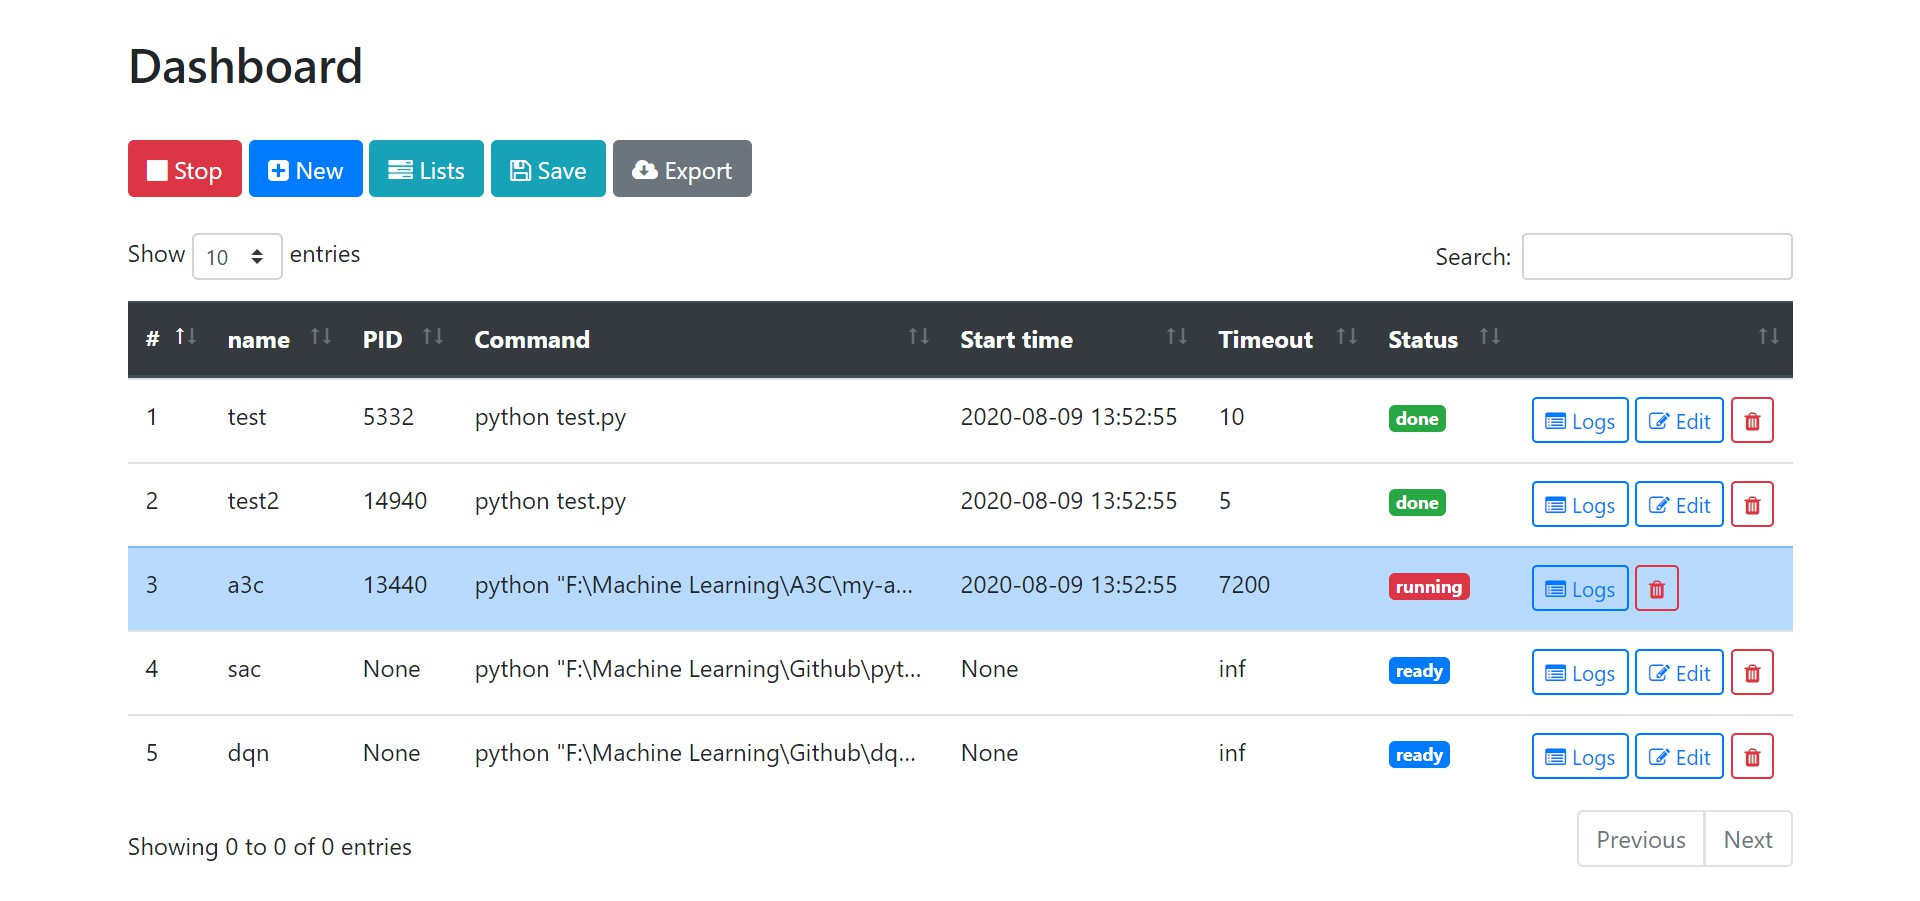
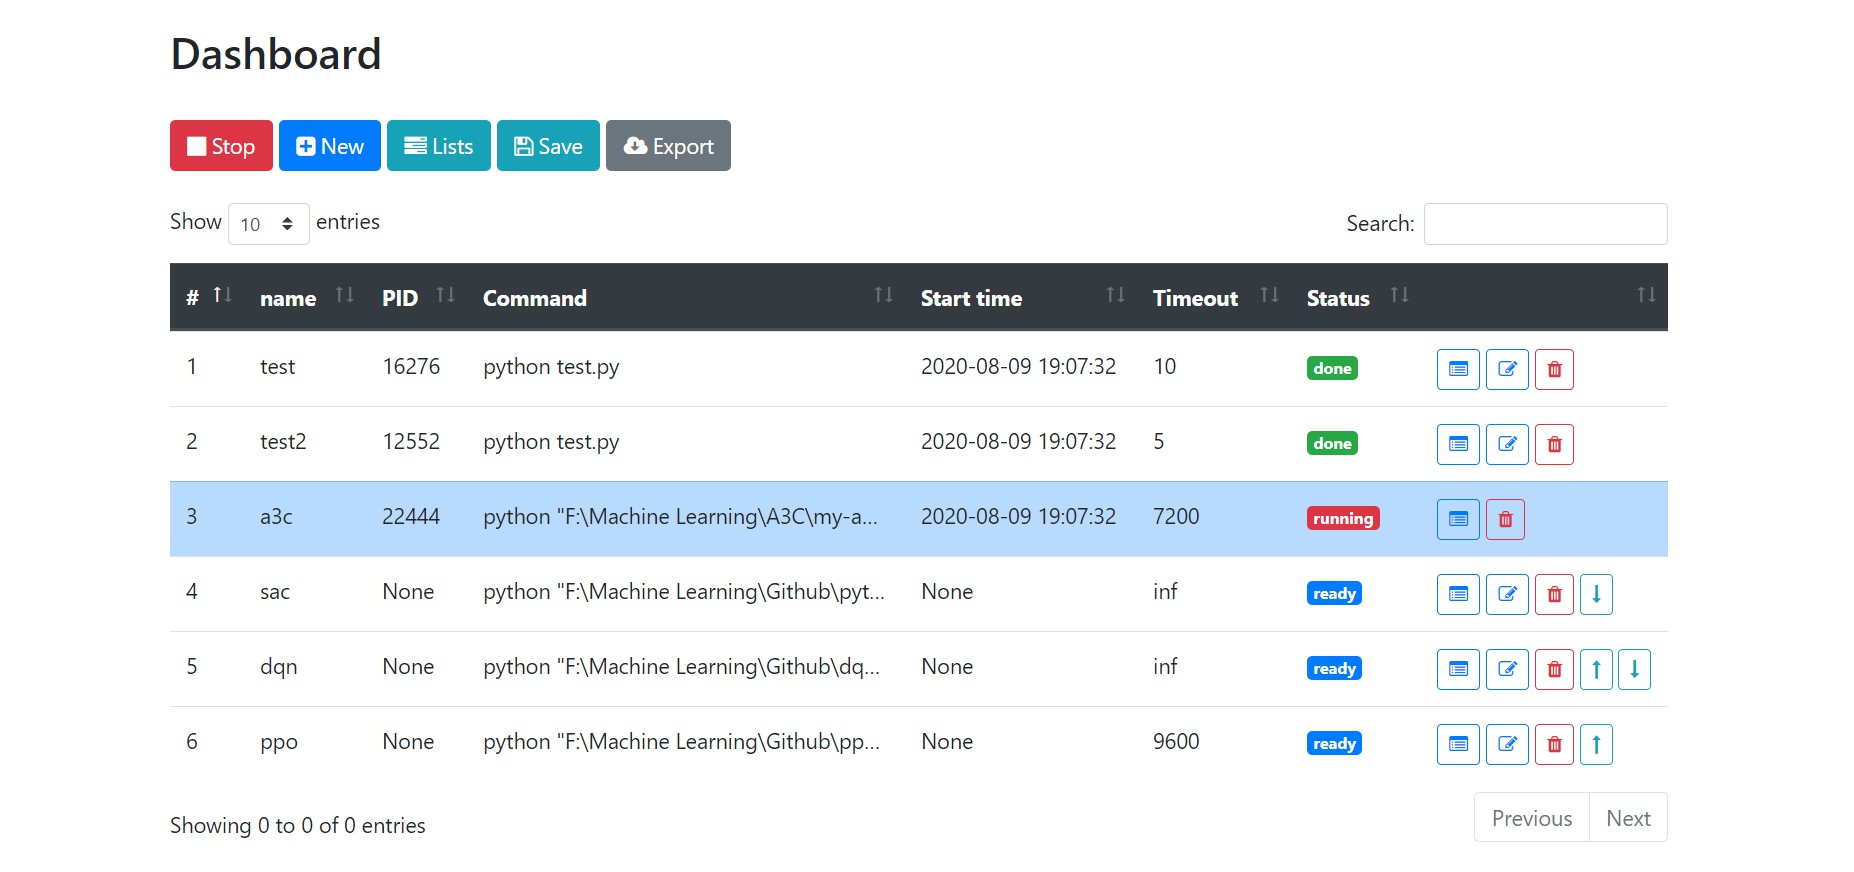
add change order feature

diff --git a/templates/dashboard.html b/templates/dashboard.html
@@ -19,11 +19,23 @@
     {% endif %}
     <td>
     <!-- controls based on crontab state -->
-    <a onclick="show_log('{{ loop.index0 }}');"><button class="btn btn-outline-primary btn-sm"><span class="fa fa-list-alt" aria-hidden="true"></span> Logs</button></a>
+    <!-- <a onclick="run_task('{{ loop.index0 }}');"><button class="btn btn-outline-success btn-sm"><span class="fa fa-play" aria-hidden="true"></span></button></a> -->
+
+    <a onclick="show_log('{{ loop.index0 }}');"><button class="btn btn-outline-primary btn-sm"><span class="fa fa-list-alt" aria-hidden="true"></span></button></a>
     {% if row['status'] != 'running'%}
-        <a onclick="edit_task('{{ loop.index0 }}');"><button class="btn btn-outline-primary btn-sm"><span class="fa fa-edit" aria-hidden="true"></span> Edit</button></a>
+        <a onclick="edit_task('{{ loop.index0 }}');"><button class="btn btn-outline-primary btn-sm"><span class="fa fa-edit" aria-hidden="true"></span></button></a>
     {% endif %}
+    
     <a onclick="delete_task('{{ loop.index0 }}');"><button class="btn btn-outline-danger btn-sm"><span class="fa fa-trash" aria-hidden="true"></span></button></a>
+    
+    {% if row['status'] == 'ready' or status %}
+        {% if (loop.index0 != 0) and (records[loop.index0 - 1].status == 'ready' or status) %}
+            <a onclick="order_up('{{ loop.index0 }}');"><button class="btn btn-outline-info btn-sm"><span class="fa fa-long-arrow-up" aria-hidden="true"></span></button></a>
+        {% endif %}
+        {% if loop.index != records | length %}
+            <a onclick="order_down('{{ loop.index0 }}');"><button class="btn btn-outline-info btn-sm"><span  class="fa fa-long-arrow-down" aria-hidden="true"></span></button></a>
+        {% endif %}
+    {% endif %}
     </td>
     </tr>
 {% endfor %}

diff --git a/static/js/script.js b/static/js/script.js
@@ -59,6 +59,25 @@ function delete_task(index) {
 	});
 }
 
+function order_up(index) {
+	$.ajax({
+		type: 'POST',
+		url: "/order_up",
+		data: {'index': index},
+		success: function (data) {
+		}
+	});
+}
+
+function order_down(index) {
+	$.ajax({
+		type: 'POST',
+		url: "/order_down",
+		data: {'index': index},
+		success: function (data) {
+		}
+	});
+}
 var now_index = null;
 function edit_task(index) {
 	$("#task").modal("show");

diff --git a/static/css/signin.css b/static/css/signin.css
@@ -34,11 +34,7 @@ body {
 }
 .form-signin input[type="email"] {
   margin-bottom: -1px;
-  border-bottom-right-radius: 0;
-  border-bottom-left-radius: 0;
 }
 .form-signin input[type="password"] {
   margin-bottom: 10px;
-  border-top-left-radius: 0;
-  border-top-right-radius: 0;
 }

diff --git a/runner.py b/runner.py
@@ -6,7 +6,8 @@ class TaskRunner():
     def __init__(self):
         self.task_queue = []
         self.task_log_queue = []
-        self.global_run = False
+        self.is_running = False
+        self.is_alldone = False
         self.now_task = None
         self.timer = None
         self.proc = None
@@ -39,16 +40,17 @@ class TaskRunner():
         self.save_tasks()
     
     def kill_task(self):
-        self.proc.kill()
-        self.proc.terminate()
-        #os.system("TASKKILL /PID " + str(self.now_task['pid']) + " /F /T")
+        #self.proc.kill()
+        #self.proc.terminate()
+        os.system("TASKKILL /PID " + str(self.now_task['pid']) + " /F /T")
 
     def run(self, index=-1):
+        self.is_running = True
+        self.is_alldone = False
         self.now_task = None
         now_task_index = 0
 
         if index == -1:     # global run
-            self.global_run = True
             for task in self.task_queue:
                 if task['status'] == 'ready':
                     self.now_task = task
@@ -57,7 +59,6 @@ class TaskRunner():
             if self.now_task is None:
                 return
         else:               # single run
-            self.global_run = False
             self.now_task = self.task_queue[index]
             now_task_index = index
 
@@ -70,23 +71,33 @@ class TaskRunner():
         # set timer or not
         if self.now_task['timeout'] != 'inf':
             self.timer = Timer(int(self.now_task['timeout']), self.kill_task)
-            self.timer.start()
-            stdout, stderr = self.proc.communicate()
-            self.timer.cancel()
+            try:
+                self.timer.start()
+                stdout, stderr = self.proc.communicate()
+            finally:
+                self.timer.cancel()
         else:
             stdout, stderr = self.proc.communicate()
         
         # after run
         self.task_log_queue[now_task_index] = stdout
 
-        if self.global_run:
+        if self.is_running:
             self.now_task['status'] = 'done'
             self.run()
         else:
             self.now_task['status'] = 'ready'
 
+        for task in self.task_queue:
+            if task['status'] != 'done':
+                self.is_alldone = False
+                break
+            else:
+                self.is_alldone = True
+                self.is_running = False
+
     def stop(self):
-        self.global_run = False
+        self.is_running = False
         if self.timer is not None:
             self.timer.cancel()
         self.kill_task()
@@ -94,15 +105,9 @@ class TaskRunner():
     def reset_status(self):
         for task in self.task_queue:
             task['status'] = 'ready'
-    
-    def is_alldone(self):
-        for task in self.task_queue:
-            if task['status'] != 'done':
-                return False
-        return True
 
     def reset(self):
-        self.global_run = False
+        self.is_running = False
         self.task_queue = []
         self.task_log_queue = []
 
@@ -111,6 +116,20 @@ class TaskRunner():
         self.task_log_queue.pop(int(index))
         self.save_tasks()
 
+    def order_up(self, index):
+        index = int(index)
+        temp = self.task_queue[index]
+        self.task_queue[index] = self.task_queue[index - 1]
+        self.task_queue[index - 1] = temp
+        self.save_tasks()
+    
+    def order_down(self, index):
+        index = int(index)
+        temp = self.task_queue[index]
+        self.task_queue[index] = self.task_queue[index + 1]
+        self.task_queue[index + 1] = temp
+        self.save_tasks()
+    
     def edit(self, index, name, cmd, timeout):
         index = int(index)
         self.task_queue[index]['name'] = name

diff --git a/app.py b/app.py
@@ -25,12 +25,12 @@ def login():
 @app.route('/')
 def dashboard():
     if 'username' not in session: return render_template('login.html')
-    return render_template('index.html', records=runner.task_queue)
+    return render_template('index.html', records=runner.task_queue, status=runner.is_alldone)
 
 @app.route('/get_tasks', methods=['GET'])
 def get_tasks():
     if 'username' in session:
-        return render_template('dashboard.html', records=runner.task_queue)
+        return render_template('dashboard.html', records=runner.task_queue, status=runner.is_alldone)
     else:
         return '<div class="spinner-grow text-primary" role="status"><span class="sr-only">Loading...</span></div>'
 
@@ -44,8 +44,21 @@ def get_task():
 @app.route('/delete_task', methods=['POST'])
 def delete():
     if 'username' not in session: return render_template('login.html')
-    runner.delete(request.form['index'])
+    index = int(request.form['index'])
+    runner.delete(index)
     return 'delete'
+
+@app.route('/order_up', methods=['POST'])
+def order_up():
+    if 'username' not in session: return render_template('login.html')
+    runner.order_up(request.form['index'])
+    return 'order_up'
+
+@app.route('/order_down', methods=['POST'])
+def order_down():
+    if 'username' not in session: return render_template('login.html')
+    runner.order_down(request.form['index'])
+    return 'order_down'
 
 @app.route('/add_task', methods=['POST'])
 def add():
@@ -68,7 +81,7 @@ def get_log():
 @app.route('/global_start', methods=['GET'])
 def run():
     if 'username' not in session: return render_template('login.html')
-    if runner.is_alldone():
+    if runner.is_alldone:
         runner.reset_status()
     runner.run()
     return 'start'

diff --git a/README.md b/README.md
@@ -19,8 +19,3 @@ python app.py
 **default password: admin**
 
 and you can change password in file "password" **(recommend)**
-
-## Todo
-
-- [ ] run single task
-- [ ] change task order
